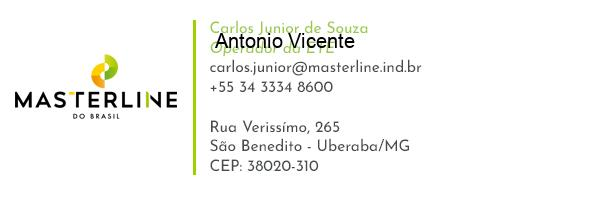
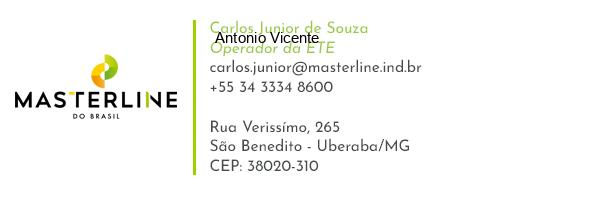
add: img

Changed region(s): [[0.3661, 0.1523, 0.6102, 0.2437]]

diff --git a/main.py b/main.py
@@ -15,7 +15,7 @@ for palavra in palavras:
     # abir a imagem para edição
     draw = ImageDraw.Draw(imagem)
     # escolher fonte
-    font = ImageFont.truetype('arial.ttf',20)
+    font = ImageFont.truetype('arial.ttf',15)
     draw.text((215,29),palavra,fill =(0,0,0),font=font,)
     # salvar a imagem modificada
     imagem.save(f'imagem{contador}.jpg')
